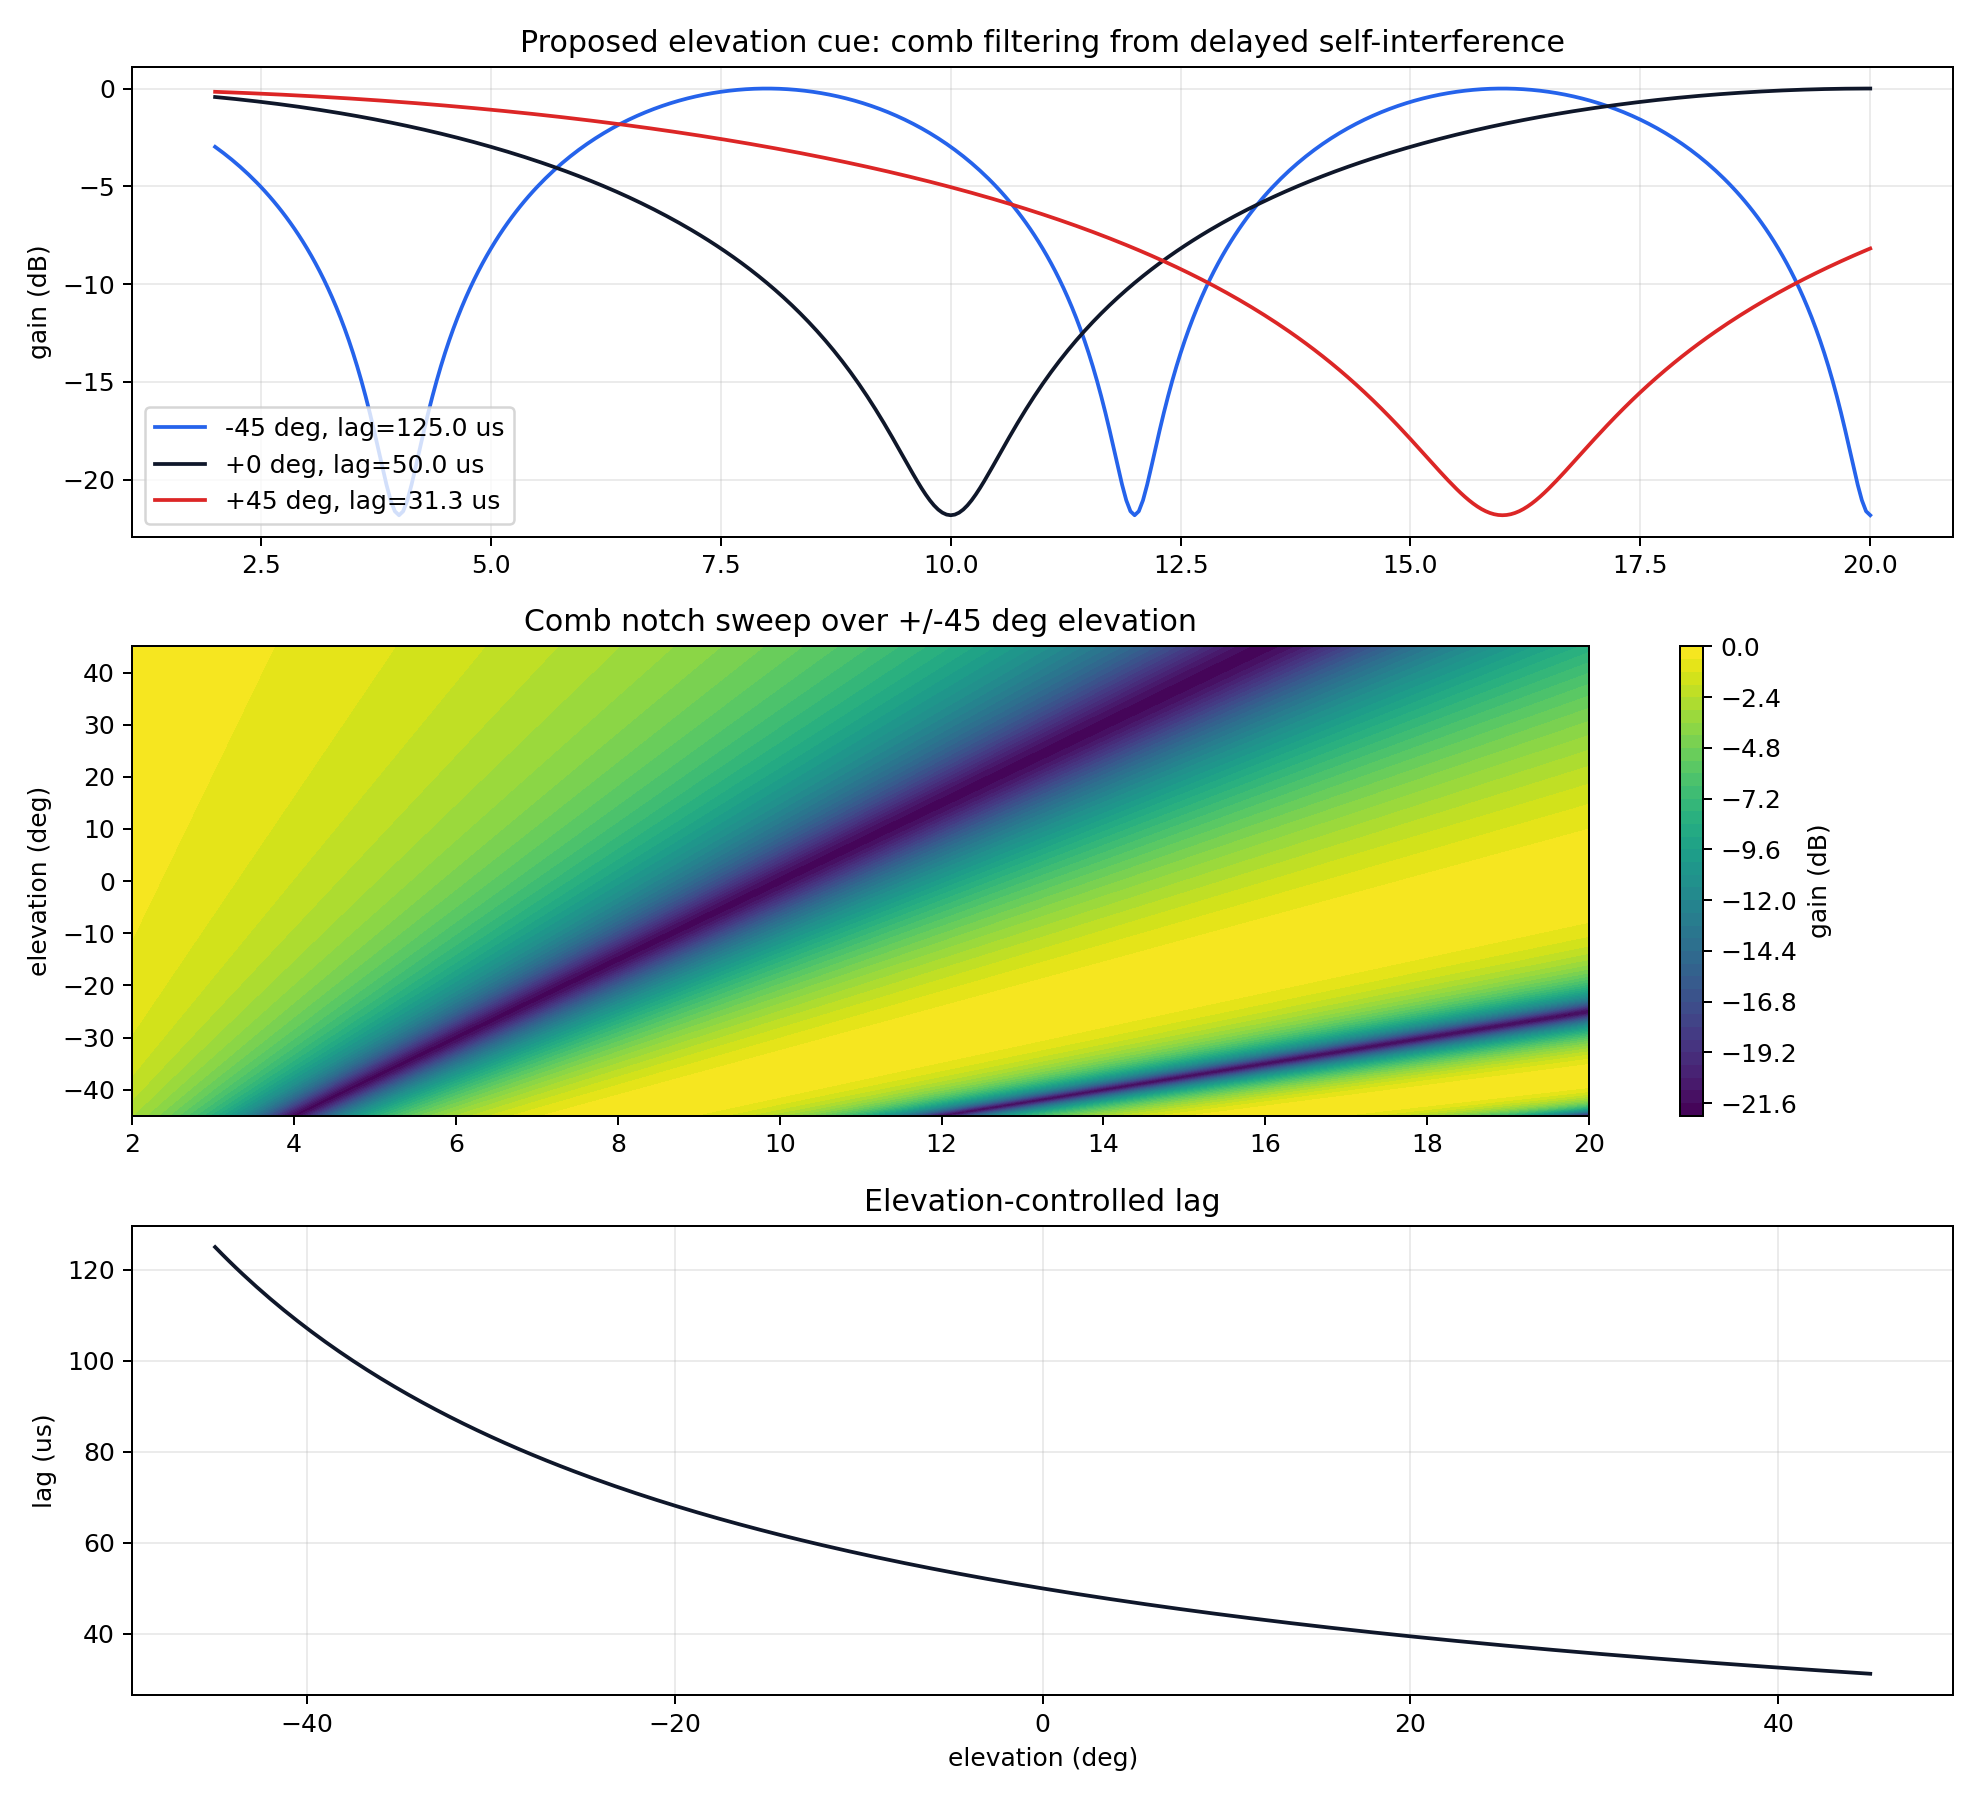
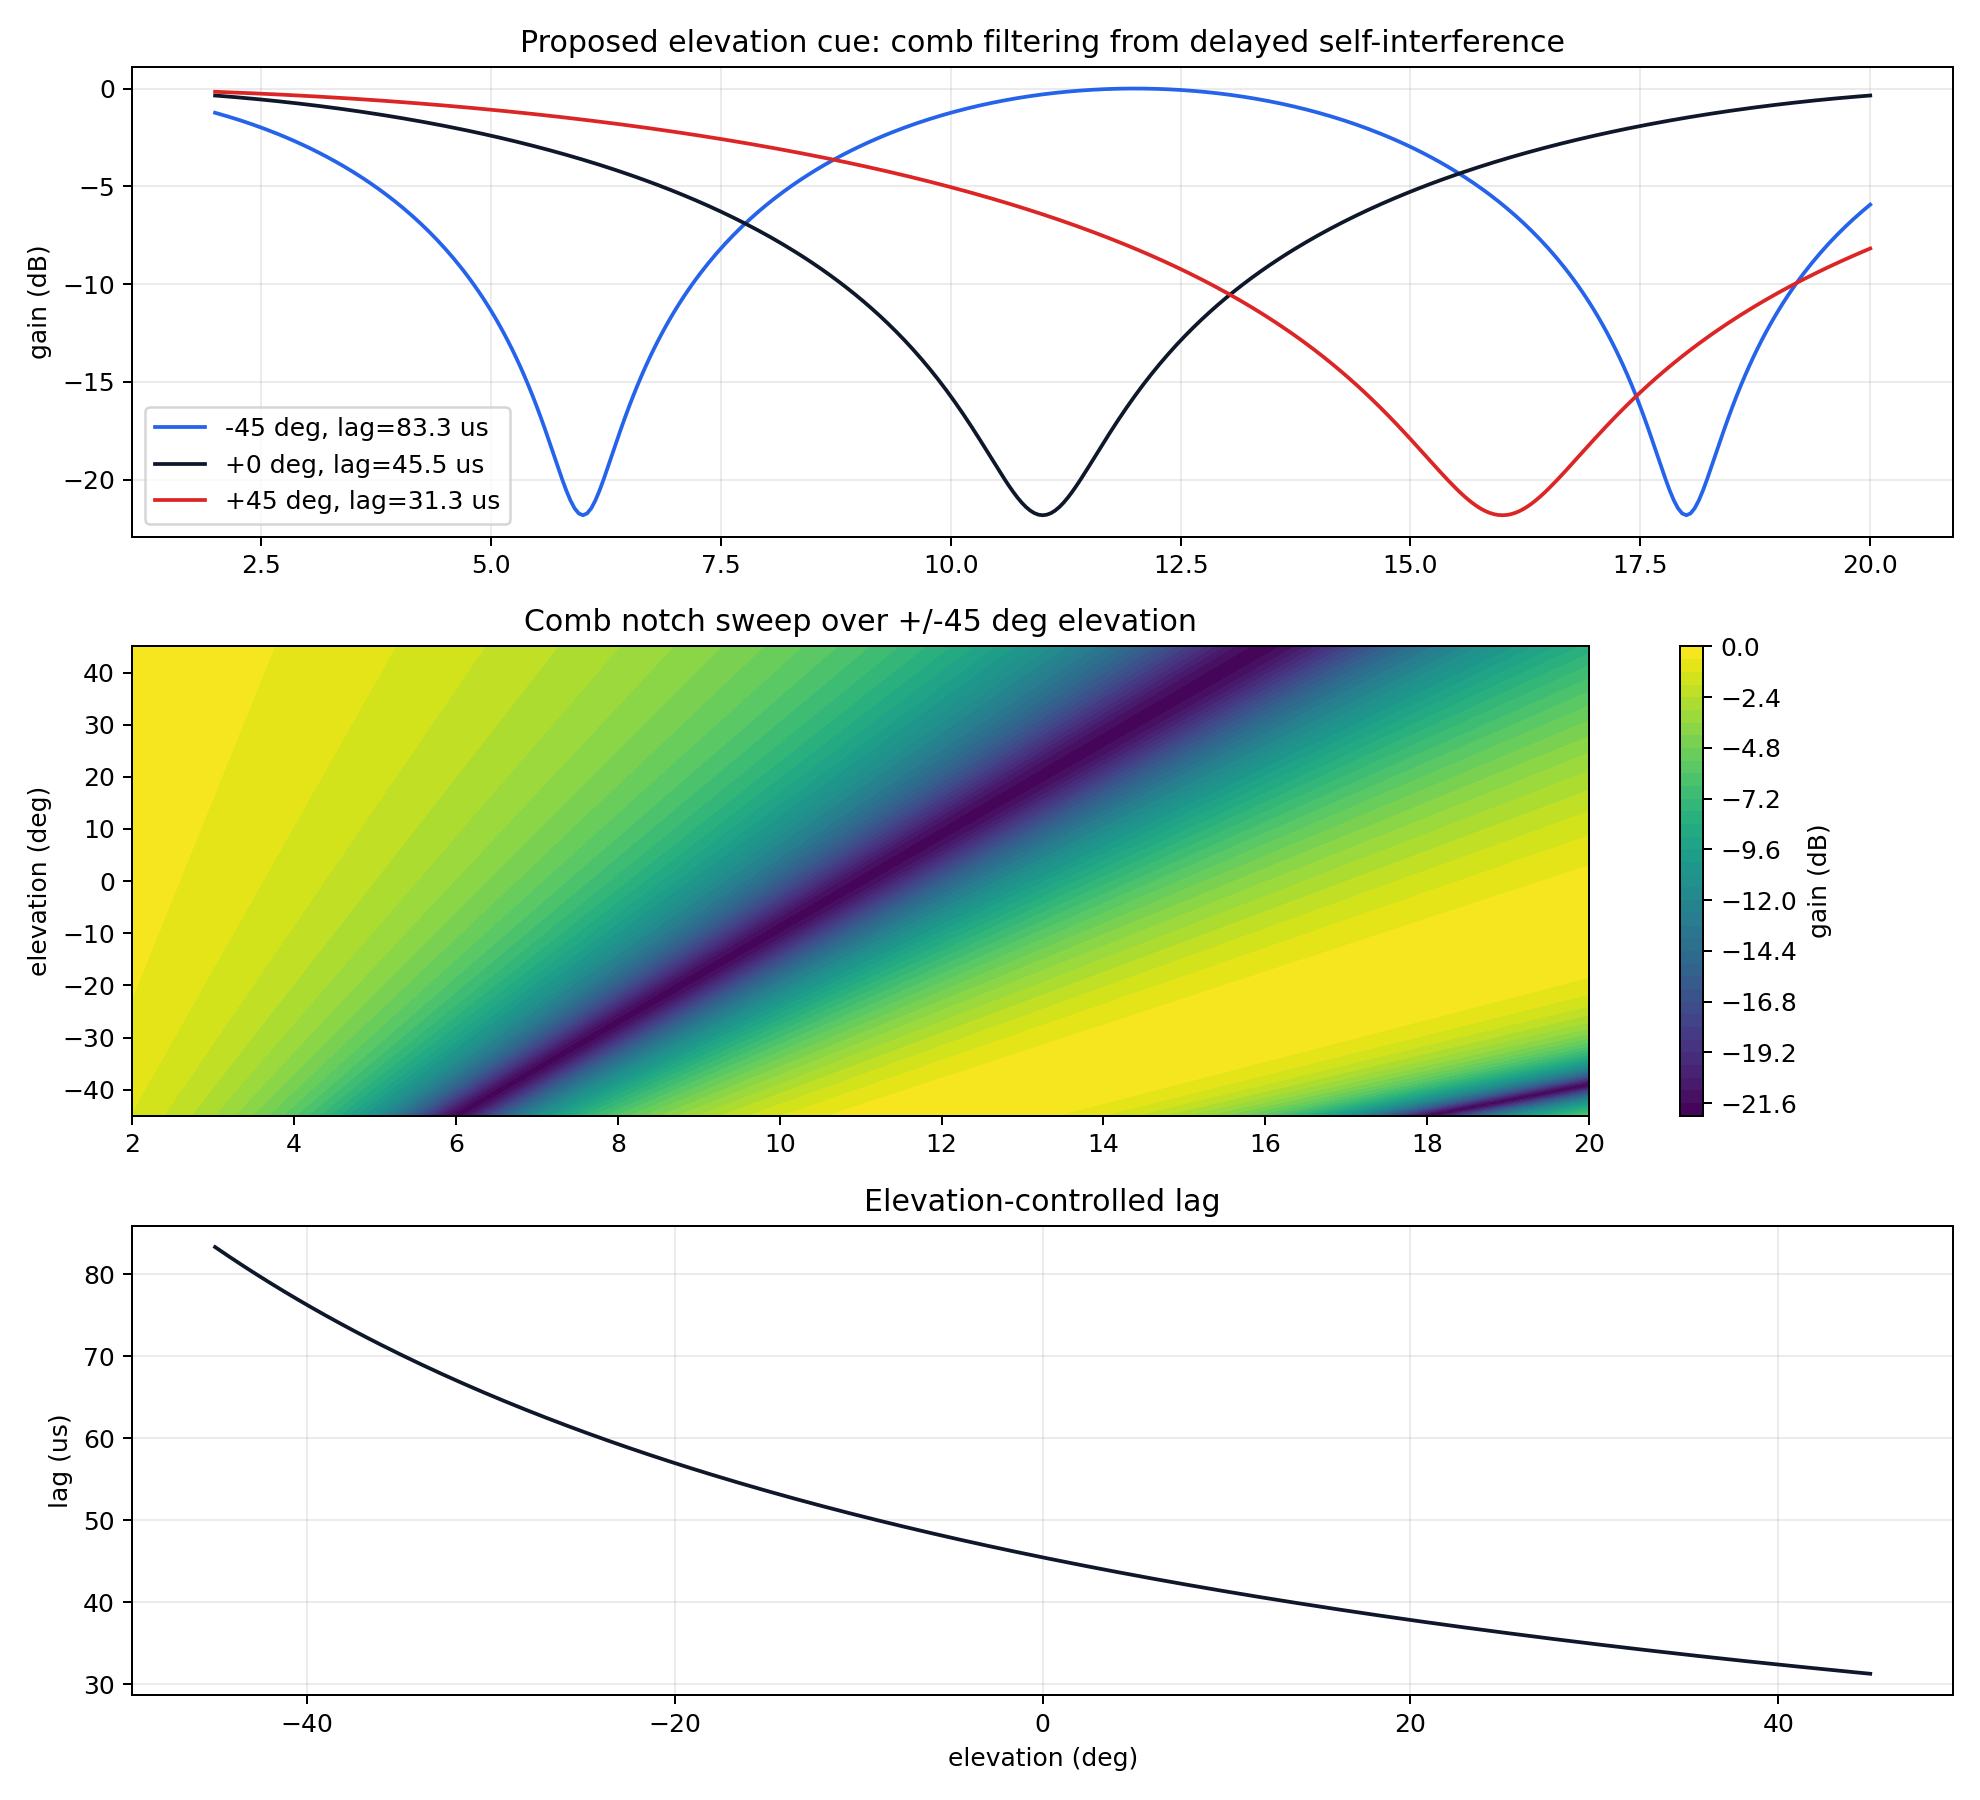
final updates for signal analysis

diff --git a/mini_models/experiments/signal_analysis.py b/mini_models/experiments/signal_analysis.py
@@ -44,6 +44,8 @@ EXAMPLE_AZIMUTH_DEG = 35.0
 EXAMPLE_ELEVATION_DEG = 20.0
 NOTCH_SWEEP_LOW_HZ = 4_000.0
 NOTCH_SWEEP_HIGH_HZ = 16_000.0
+COMB_FIRST_NOTCH_LOW_HZ = 6_000.0
+COMB_FIRST_NOTCH_HIGH_HZ = 16_000.0
 
 
 def _to_numpy(values: torch.Tensor) -> np.ndarray:
@@ -168,8 +170,8 @@ def _comb_interference_gain(
     elevation_deg: torch.Tensor,
     frequency_hz: torch.Tensor,
     *,
-    lowest_notch_hz: float = 4_000.0,
-    highest_notch_hz: float = 16_000.0,
+    lowest_notch_hz: float = COMB_FIRST_NOTCH_LOW_HZ,
+    highest_notch_hz: float = COMB_FIRST_NOTCH_HIGH_HZ,
     delayed_copy_gain: float = 0.85,
 ) -> tuple[torch.Tensor, torch.Tensor]:
     """Create a comb-filter gain from interference with a delayed copy.
@@ -644,6 +646,7 @@ def _write_report(artifacts: dict[str, str], results: dict[str, object], elapsed
         f"| azimuth limit for mini sweeps | `+/-{results['limits']['azimuth_deg']} deg` |",
         f"| elevation limit for mini sweeps | `+/-{results['limits']['elevation_deg']} deg` |",
         f"| notch centre sweep | `{results['limits']['notch_sweep_low_hz']} -> {results['limits']['notch_sweep_high_hz']} Hz` |",
+        f"| comb first-notch sweep | `{results['limits']['comb_first_notch_low_hz']} -> {results['limits']['comb_first_notch_high_hz']} Hz` |",
         f"| example distance | `{results['scene']['distance_m']} m` |",
         f"| example azimuth | `{results['scene']['azimuth_deg']} deg` |",
         f"| example elevation | `{results['scene']['elevation_deg']} deg` |",
@@ -732,9 +735,12 @@ def _write_report(artifacts: dict[str, str], results: dict[str, object], elapsed
         "This proposed cue also removes the broad slope. The signal is mixed with a slightly delayed copy of itself. Frequency components whose phase is opposite between the direct and delayed copy cancel, producing a comb of notches.",
         "",
         "```text",
+        "chirp(t) = sin(2*pi*(f_start*t + 0.5*k*t^2)) * Hann(t)",
         "y(t) = x(t) + alpha * x(t - tau)",
         "H(f) = 1 + alpha * exp(-j * 2*pi*f*tau)",
         "|H(f)| = sqrt(1 + alpha^2 + 2*alpha*cos(2*pi*f*tau))",
+        "Y(f) = X_chirp(f) * H(f)",
+        "|Y(f)| = |X_chirp(f)| * |H(f)|",
         "first_notch = 1 / (2 * tau)",
         "tau(elevation) = 1 / (2 * first_notch_frequency(elevation))",
         "```",
@@ -828,6 +834,8 @@ def main() -> dict[str, object]:
             "elevation_deg": ANGLE_LIMIT_DEG,
             "notch_sweep_low_hz": NOTCH_SWEEP_LOW_HZ,
             "notch_sweep_high_hz": NOTCH_SWEEP_HIGH_HZ,
+            "comb_first_notch_low_hz": COMB_FIRST_NOTCH_LOW_HZ,
+            "comb_first_notch_high_hz": COMB_FIRST_NOTCH_HIGH_HZ,
         },
         "noise_jitter_diagnostic": noise_jitter_diagnostic,
         "artifacts": artifacts,

diff --git a/mini_models/reports/signal_analysis.md b/mini_models/reports/signal_analysis.md
@@ -13,6 +13,7 @@ This mini model visualizes the acoustic signal before neural processing. It is i
 | azimuth limit for mini sweeps | `+/-45.0 deg` |
 | elevation limit for mini sweeps | `+/-45.0 deg` |
 | notch centre sweep | `4000.0 -> 16000.0 Hz` |
+| comb first-notch sweep | `6000.0 -> 16000.0 Hz` |
 | example distance | `3.0 m` |
 | example azimuth | `35.0 deg` |
 | example elevation | `20.0 deg` |
@@ -101,9 +102,12 @@ Compared with the Gaussian notch, increasing the Butterworth order makes the not
 This proposed cue also removes the broad slope. The signal is mixed with a slightly delayed copy of itself. Frequency components whose phase is opposite between the direct and delayed copy cancel, producing a comb of notches.
 
 ```text
+chirp(t) = sin(2*pi*(f_start*t + 0.5*k*t^2)) * Hann(t)
 y(t) = x(t) + alpha * x(t - tau)
 H(f) = 1 + alpha * exp(-j * 2*pi*f*tau)
 |H(f)| = sqrt(1 + alpha^2 + 2*alpha*cos(2*pi*f*tau))
+Y(f) = X_chirp(f) * H(f)
+|Y(f)| = |X_chirp(f)| * |H(f)|
 first_notch = 1 / (2 * tau)
 tau(elevation) = 1 / (2 * first_notch_frequency(elevation))
 ```
@@ -134,4 +138,4 @@ Changing elevation changes the lag, which moves the comb notches across frequenc
 - `comb_interference_notch_model`: `mini_models/outputs/signal_analysis/figures/comb_interference_notch_model.png`
 - `results`: `mini_models/outputs/signal_analysis/results.json`
 
-Runtime: `1.07 s`.
+Runtime: `0.99 s`.
